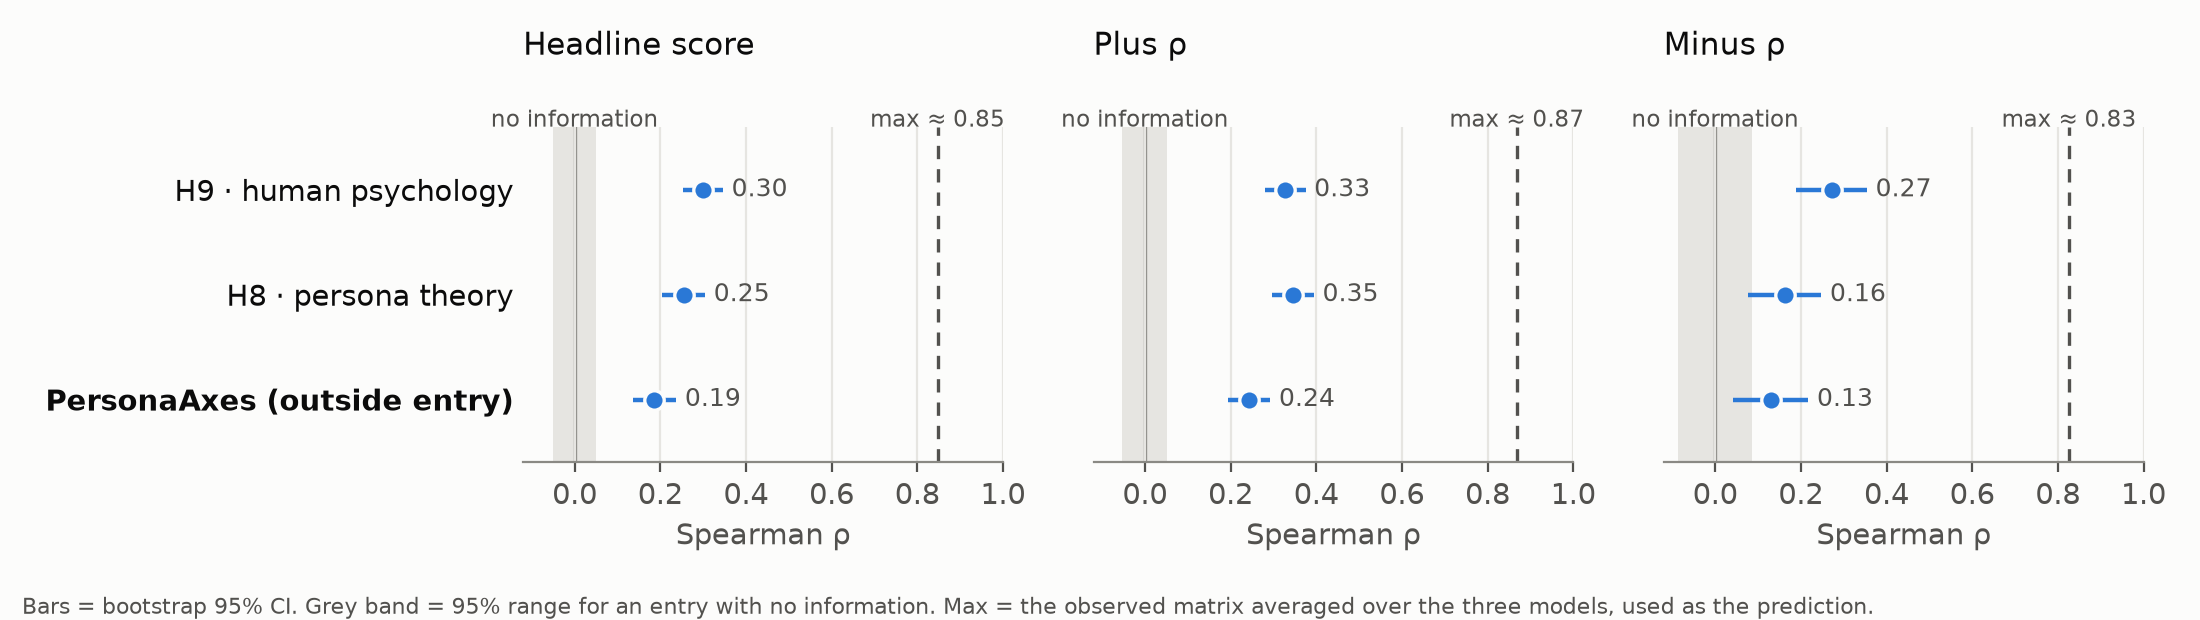
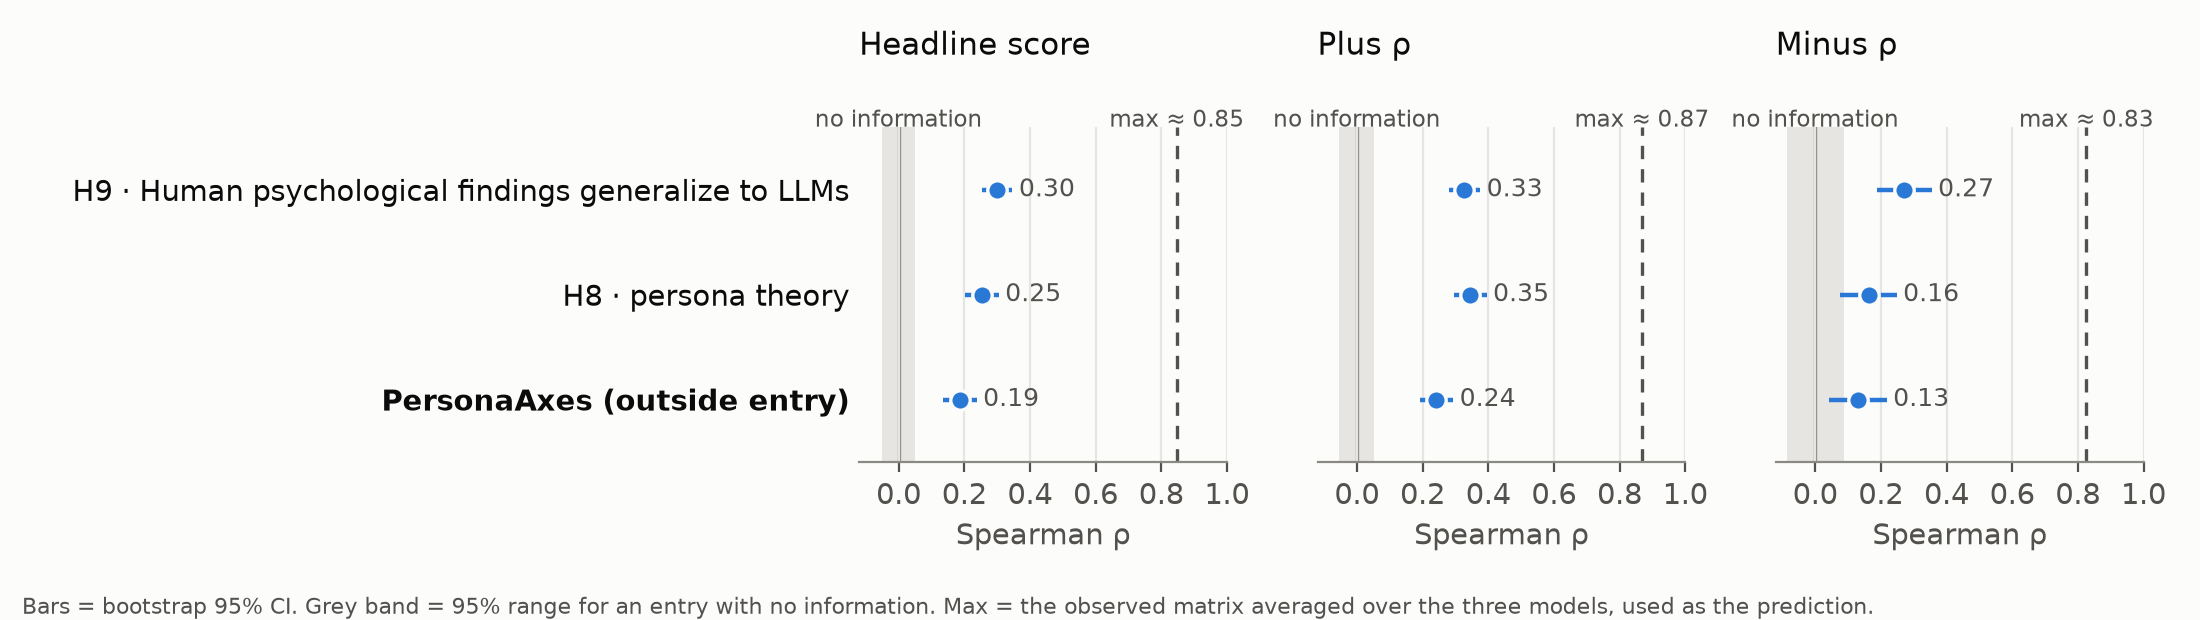
results_followup: H1/H6/H9 labels match the challenge site titles; re-rendered figures
Claude-Session: https://claude.ai/code/session_019kNKu1UE5tTeziBYxsrNRo

diff --git a/results_followup/score_both_rules.py b/results_followup/score_both_rules.py
@@ -26,13 +26,13 @@ MODELS = ["qwen35", "qwen35-base", "nemotron35"]
 LABELS = {
     "Hquine_nomech": "Quine (outside entry)",
     "HPersonaAxes": "PersonaAxes (outside entry)",
-    "H1": "H1 · shortcut learning", "H2": "H2 · simplicity bias",
+    "H1": "H1 · Spurious correlation / shortcut learning", "H2": "H2 · simplicity bias",
     "H3": "H3 · causal vs statistical features", "H4": "H4 · subliminal transmission",
-    "H5": "H5 · out-of-context reasoning", "H6": "H6 · low-dim linear geometry",
+    "H5": "H5 · out-of-context reasoning", "H6": "H6 · Low-dimensional linear / log-linear causal geometry",
     "H7a_r1": "H7a · anything goes (run 1)", "H7a_r2": "H7a · anything goes (run 2)",
     "H7a_r3": "H7a · anything goes (run 3)", "H7b_r1": "H7b · intuition (run 1)",
     "H7b_r2": "H7b · intuition (run 2)", "H7b_r3": "H7b · intuition (run 3)",
-    "H8": "H8 · persona theory", "H9": "H9 · human psychology",
+    "H8": "H8 · persona theory", "H9": "H9 · Human psychological findings generalize to LLMs",
 }
 rd = lambda s: pd.read_csv(io.StringIO(s), index_col=0)
 

diff --git a/results_followup/plot_persona.py b/results_followup/plot_persona.py
@@ -8,7 +8,7 @@ import matplotlib.pyplot as plt
 SURFACE, INK, INK2, MUTED, GRID = "#fcfcfb", "#0b0b0b", "#52514e", "#8a8984", "#e6e5e1"
 DOT = "#2a78d6"
 ENTRIES = ["H9", "H8", "HPersonaAxes"]  # top → bottom
-LABEL = {"H9": "H9 · human psychology", "H8": "H8 · persona theory", "HPersonaAxes": "PersonaAxes (outside entry)"}
+LABEL = {"H9": "H9 · Human psychological findings generalize to LLMs", "H8": "H8 · persona theory", "HPersonaAxes": "PersonaAxes (outside entry)"}
 
 df = pd.read_csv("scores.csv", dtype={"entry": str}, keep_default_na=False, na_values={c: [""] for c in ["plus_n", "minus_n"]})
 z = df[df.rule == "zero"].set_index("entry")

diff --git a/results_followup/leaderboard.md b/results_followup/leaderboard.md
@@ -1,17 +1,17 @@
 | # (blanks = 0) | Entry | Score, blanks = 0 | Plus ρ | Minus ρ | # (blanks dropped) | Score, blanks dropped |
 |---|---|---|---|---|---|---|
-| 1 | H9 · human psychology | 0.30 [0.25, 0.35] | 0.33 | 0.27 | 2 | 0.30 [0.25, 0.35] |
+| 1 | H9 · Human psychological findings generalize to LLMs | 0.30 [0.25, 0.35] | 0.33 | 0.27 | 2 | 0.30 [0.25, 0.35] |
 | 2 | H4 · subliminal transmission | 0.29 [0.24, 0.34] | 0.39 | 0.19 | 3 | 0.29 [0.24, 0.34] |
 | 3 | H7a · anything goes (run 1) | 0.28 [0.23, 0.33] | 0.39 | 0.18 | 4 | 0.28 [0.23, 0.33] |
 | 4 | H7a · anything goes (run 2) | 0.28 [0.23, 0.33] | 0.40 | 0.16 | 5 | 0.28 [0.23, 0.33] |
 | 5 | **Quine (outside entry)** | 0.28 [0.23, 0.32] | 0.34 | 0.21 | 1 | 0.36 [0.30, 0.42] |
 | 6 | H7b · intuition (run 1) | 0.27 [0.22, 0.32] | 0.39 | 0.16 | 6 | 0.27 [0.22, 0.32] |
 | 7 | H7b · intuition (run 3) | 0.26 [0.21, 0.32] | 0.38 | 0.15 | 7 | 0.26 [0.21, 0.32] |
-| 8 | H1 · shortcut learning | 0.26 [0.21, 0.31] | 0.29 | 0.23 | 8 | 0.26 [0.21, 0.31] |
+| 8 | H1 · Spurious correlation / shortcut learning | 0.26 [0.21, 0.31] | 0.29 | 0.23 | 8 | 0.26 [0.21, 0.31] |
 | 9 | H7b · intuition (run 2) | 0.26 [0.21, 0.31] | 0.38 | 0.14 | 9 | 0.26 [0.21, 0.31] |
 | 10 | H8 · persona theory | 0.25 [0.20, 0.30] | 0.35 | 0.16 | 10 | 0.25 [0.20, 0.31] |
 | 11 | H5 · out-of-context reasoning | 0.25 [0.20, 0.30] | 0.35 | 0.16 | 11 | 0.25 [0.20, 0.30] |
-| 12 | H6 · low-dim linear geometry | 0.23 [0.18, 0.29] | 0.33 | 0.14 | 12 | 0.23 [0.18, 0.28] |
+| 12 | H6 · Low-dimensional linear / log-linear causal geometry | 0.23 [0.18, 0.29] | 0.33 | 0.14 | 12 | 0.23 [0.18, 0.28] |
 | 13 | H7a · anything goes (run 3) | 0.22 [0.17, 0.27] | 0.34 | 0.10 | 13 | 0.22 [0.17, 0.28] |
 | 14 | H3 · causal vs statistical features | 0.20 [0.14, 0.25] | 0.19 | 0.21 | 14 | 0.20 [0.15, 0.25] |
 | 15 | H2 · simplicity bias | 0.19 [0.14, 0.24] | 0.24 | 0.15 | 15 | 0.19 [0.14, 0.24] |
